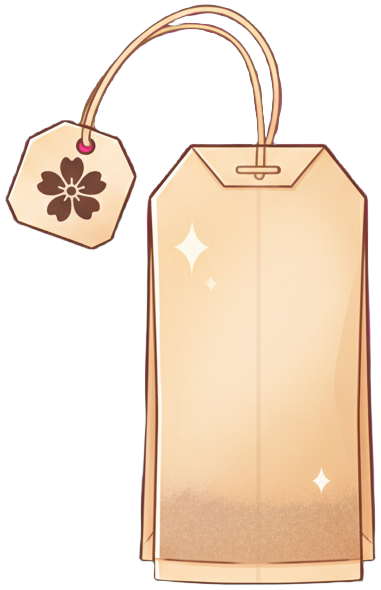
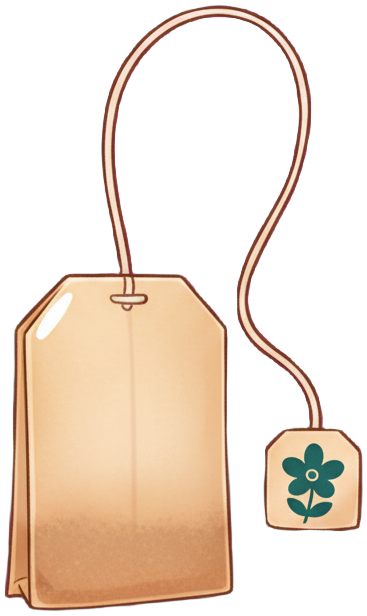
chore: 更新 drink_tea_1 资源与茶饮生成脚本
Made-with: Cursor

diff --git a/scripts/gen_drink_tea_dessert_nb2.py b/scripts/gen_drink_tea_dessert_nb2.py
@@ -89,11 +89,13 @@ TEA_SUBJECTS: dict[int, str] = {
     1: """
 LEVEL 1/8 — simplest: herbal tea BAG — **smallest tier; must look modest in a 1:1 cell.**
 
-**Shape:** **SLENDER and TALL** rectangular sachet (like a classic vertical tea bag), **NOT** a wide squat pillow — aspect about **taller than wide** (~1.25–1.6 : 1 height:width).
+**Shape:** **SLENDER and TALL** rectangular sachet (like a classic vertical tea bag), **NOT** a wide squat pillow — aspect about **taller than wide** (~1.25–1.6 : 1 height:width for the **bag body only**).
 
-**Scale:** whole prop (bag + string loop + small tag) only **~45–55%** of frame width AND height — **large empty #FF00FF padding** so it does not dominate the grid like a max-level item.
+**Scale:** whole prop (bag + string + loop + small tag) only **~32–42%** of frame **width** and **~38–48%** of frame **height** — **very large empty #FF00FF margin**; bag body itself is **small**, NOT a hero filling the square.
 
-LIGHT warm tan / cream kraft (#E8D5C4 feel) — bright NOT dark cardboard. Thin string + **small** tag with simple flower **silhouette** (no text). Hairline outline only. HARD EDGE per SHARED.
+**STRING (critical):** thin cord exits top of bag, runs **upward** with a **clear LONG loop** above the bag (generous arc — **do NOT** use a tiny stubby loop hugging the bag top). Then string descends to a **small** tag at the side/below the loop. Visually: **string+loop occupies a noticeable vertical band** so the line reads long and elegant; tag stays small. **FORBIDDEN:** cropping the loop against the top edge of canvas — keep **clear magenta gap** above the highest point of the string.
+
+LIGHT warm tan / cream kraft (#E8D5C4 feel) — bright NOT dark cardboard. **Small** tag with simple flower **silhouette** (no text). Hairline outline only. HARD EDGE per SHARED.
 """.strip(),
     2: """
 LEVEL 2/8 — jasmine tea. Short ceramic tea cup (squat), pale green-gold tea, 3–4 white jasmine buds floating on surface.
